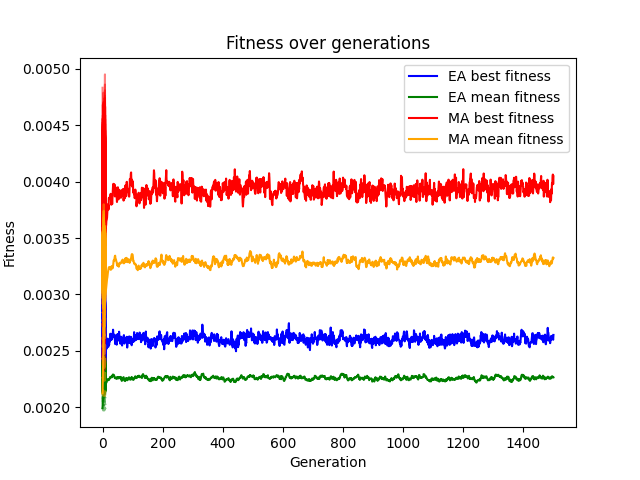
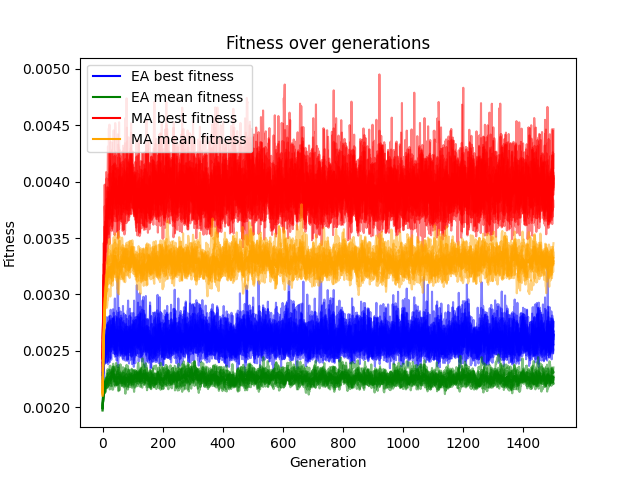
fix fitness plots

diff --git a/ex5_4.py b/ex5_4.py
@@ -219,15 +219,16 @@ def compare_algorithms(coords, K=10, steps=1500):
 def plot_fitness_comparisons(ea_fitness, ma_fitness):
     """Plot the mean and best fitness for each run (and their means over all runs) of EA and MA"""
     fig = plt.figure()
-    plt.plot(ea_fitness[:, 0, :], alpha=0.5, color='b')
-    plt.plot(np.mean(ea_fitness[:, 0, :], axis=0), label="EA best fitness", color='b')
-    plt.plot(ea_fitness[:, 1, :], alpha=0.5, color='g')
-    plt.plot(np.mean(ea_fitness[:, 1, :], axis=0), label="EA mean fitness", color='g')
+    iterations = range(ea_fitness.shape[2])
+    plt.plot(iterations, ea_fitness[:, 0, :].T, alpha=0.5, color='b')
+    plt.plot(iterations, np.mean(ea_fitness[:, 0, :], axis=0), label="EA best fitness", color='b')
+    plt.plot(iterations, ea_fitness[:, 1, :].T, alpha=0.5, color='g')
+    plt.plot(iterations, np.mean(ea_fitness[:, 1, :], axis=0), label="EA mean fitness", color='g')
 
-    plt.plot(ma_fitness[:, 0, :], alpha=0.5, color='r')
-    plt.plot(np.mean(ma_fitness[:, 0, :], axis=0), label="MA best fitness", color='r')
-    plt.plot(ma_fitness[:, 1, :], alpha=0.5, color='orange')
-    plt.plot(np.mean(ma_fitness[:, 1, :], axis=0), label="MA mean fitness", color='orange')
+    plt.plot(iterations, ma_fitness[:, 0, :].T, alpha=0.5, color='r')
+    plt.plot(iterations, np.mean(ma_fitness[:, 0, :], axis=0), label="MA best fitness", color='r')
+    plt.plot(iterations, ma_fitness[:, 1, :].T, alpha=0.5, color='orange')
+    plt.plot(iterations, np.mean(ma_fitness[:, 1, :], axis=0), label="MA mean fitness", color='orange')
 
     plt.title("Fitness over generations")
     plt.xlabel("Generation")
@@ -264,6 +265,13 @@ coords = read_tsp_file(file_reader)
 ea_fitness, ea_solutions, ma_fitness, ma_solutions = compare_algorithms(coords)
 np.savez("results2.npz", ea_fitness=ea_fitness, ea_solutions=ea_solutions,
          ma_fitness=ma_fitness, ma_solutions=ma_solutions)
+""" Load results:
+results = np.load("results1.npz")
+ea_fitness = results["ea_fitness"]
+ea_solutions = results["ea_solutions"]
+ma_fitness = results["ma_fitness"]
+ma_solutions = results["ma_solutions"]
+"""
 fig1 = plot_fitness_comparisons(ea_fitness, ma_fitness)
 plt.savefig("fitnesses2.png")
 plt.show()
